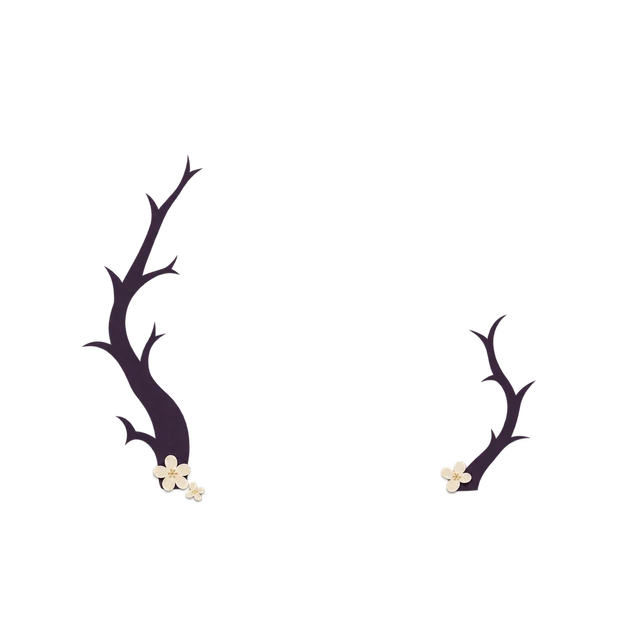
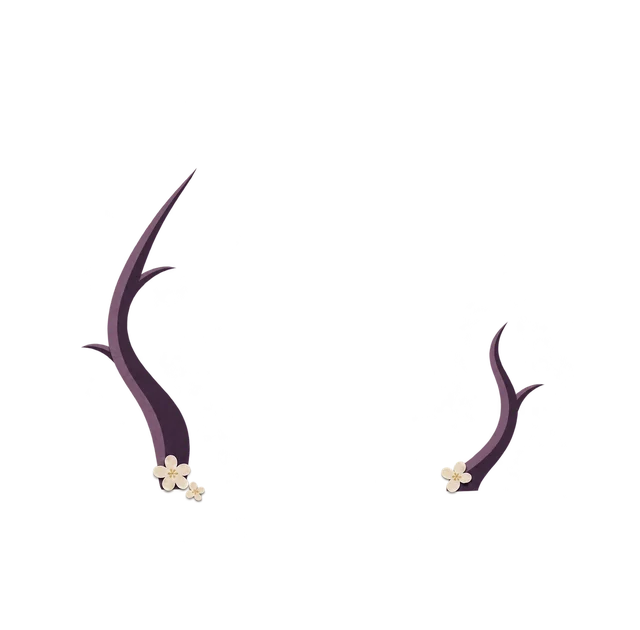
Simplify the homepage branches and add paper folds

diff --git a/PROGRESS.md b/PROGRESS.md
@@ -1,3 +1,7 @@
+## 首页荆枝折面微调（2026-11-04）
+- 按反馈用生图编辑前景荆枝。左枝留两处短叉，右枝留一处短叉。沿主枝加上浅灰紫迎光面和深紫背光面，形成清楚的纸折边界。更新两档透明 WebP 与来源清单。
+- 已查看桌面和手机宽度截图，五档 Edge 预览及书写入口通过。14 项单元测试、41 项 Edge 回归和生产构建通过。未使用手机实机测试。
+
 ## 首页月影门 / 当前交付（2026-11-04）
 - 检查与方案：以 main/af5913a 为起点，保留迁移兼容未提交改动。用户要求首页主门改为小剧场同风格生图，并进一步要求把组件拆开、做出立体感。范围限首页中央门景。
 - 资源与接入：不使用合成概念图，改用夜色远丘、独立弯月、镂空门框与台阶、前景枝条与白花四层。新生成三组共六张透明 WebP，合计231,802字节，弯月复用小剧场资源。鼠标下独立错动、离开复位，触屏与减少动态效果保留静态遮挡和投影。钥匙、题签、书写跳转和首页帷幕保留。

diff --git a/public/art/home/README.md b/public/art/home/README.md
@@ -7,6 +7,6 @@
 | `gate-night` | 淡紫背板、深紫天空与远丘。夜色越过门框内沿，移动时不会露底。 |
 | 弯月 | 复用 `../theatre/moon-crescent-*.webp`，独立在夜色和门框之间。 |
 | `gate-arch` | 镂空尖拱、飞蛾纹与台阶。中心保留透明，露出后方夜色。 |
-| `gate-boughs` | 前景两侧的荆枝和白花，配合轻微投影。 |
+| `gate-boughs` | 左二右一短叉的前景荆枝和白花。浅灰紫迎光面与深紫背光面沿枝干分开，配合轻微投影。 |
 
 三组新图按统一画布定位（640×630 和 1280×1260），只做等比缩放、透明画布定位和 WebP 压缩，保留生成的透明度。浏览器按屏幕选档。原始 PNG 保存在本地忽略目录 `work/home-gate-masters/`，不参与运行。题签与可操作钥匙为网页元素；图片不拦截点击。

diff --git a/docs/DESIGN_SPEC.md b/docs/DESIGN_SPEC.md
@@ -1,6 +1,8 @@
 # 夜栖设计规范
 
 ## 首页月影门（2026-11-04）
+前景荆枝按反馈简化。左枝留两处短叉，右枝留一处短叉。主枝沿弧线分成浅灰紫迎光面与深紫背光面，清晰的色块边界表现纸张折面。
+
 用户要求首页大门延续小剧场的简洁纸艺生图风格，并拆开组件做出立体感。首页只更新中央门景：后方夜色与远丘、独立弯月、镂空尖拱与纸台阶、前方枝条与白花按顺序叠放。紫黑纸层、象牙白和细旧金边沿用剧场配色；前层薄影、遮挡和轻微视差用来表现距离。帷幕、题字、索引和两侧版式保持。新生成三层共六张透明 WebP，弯月复用剧场素材；详见 `public/art/home/`。
 
 ## 小剧场空间修订（2026-11-03，当前空间规则）
